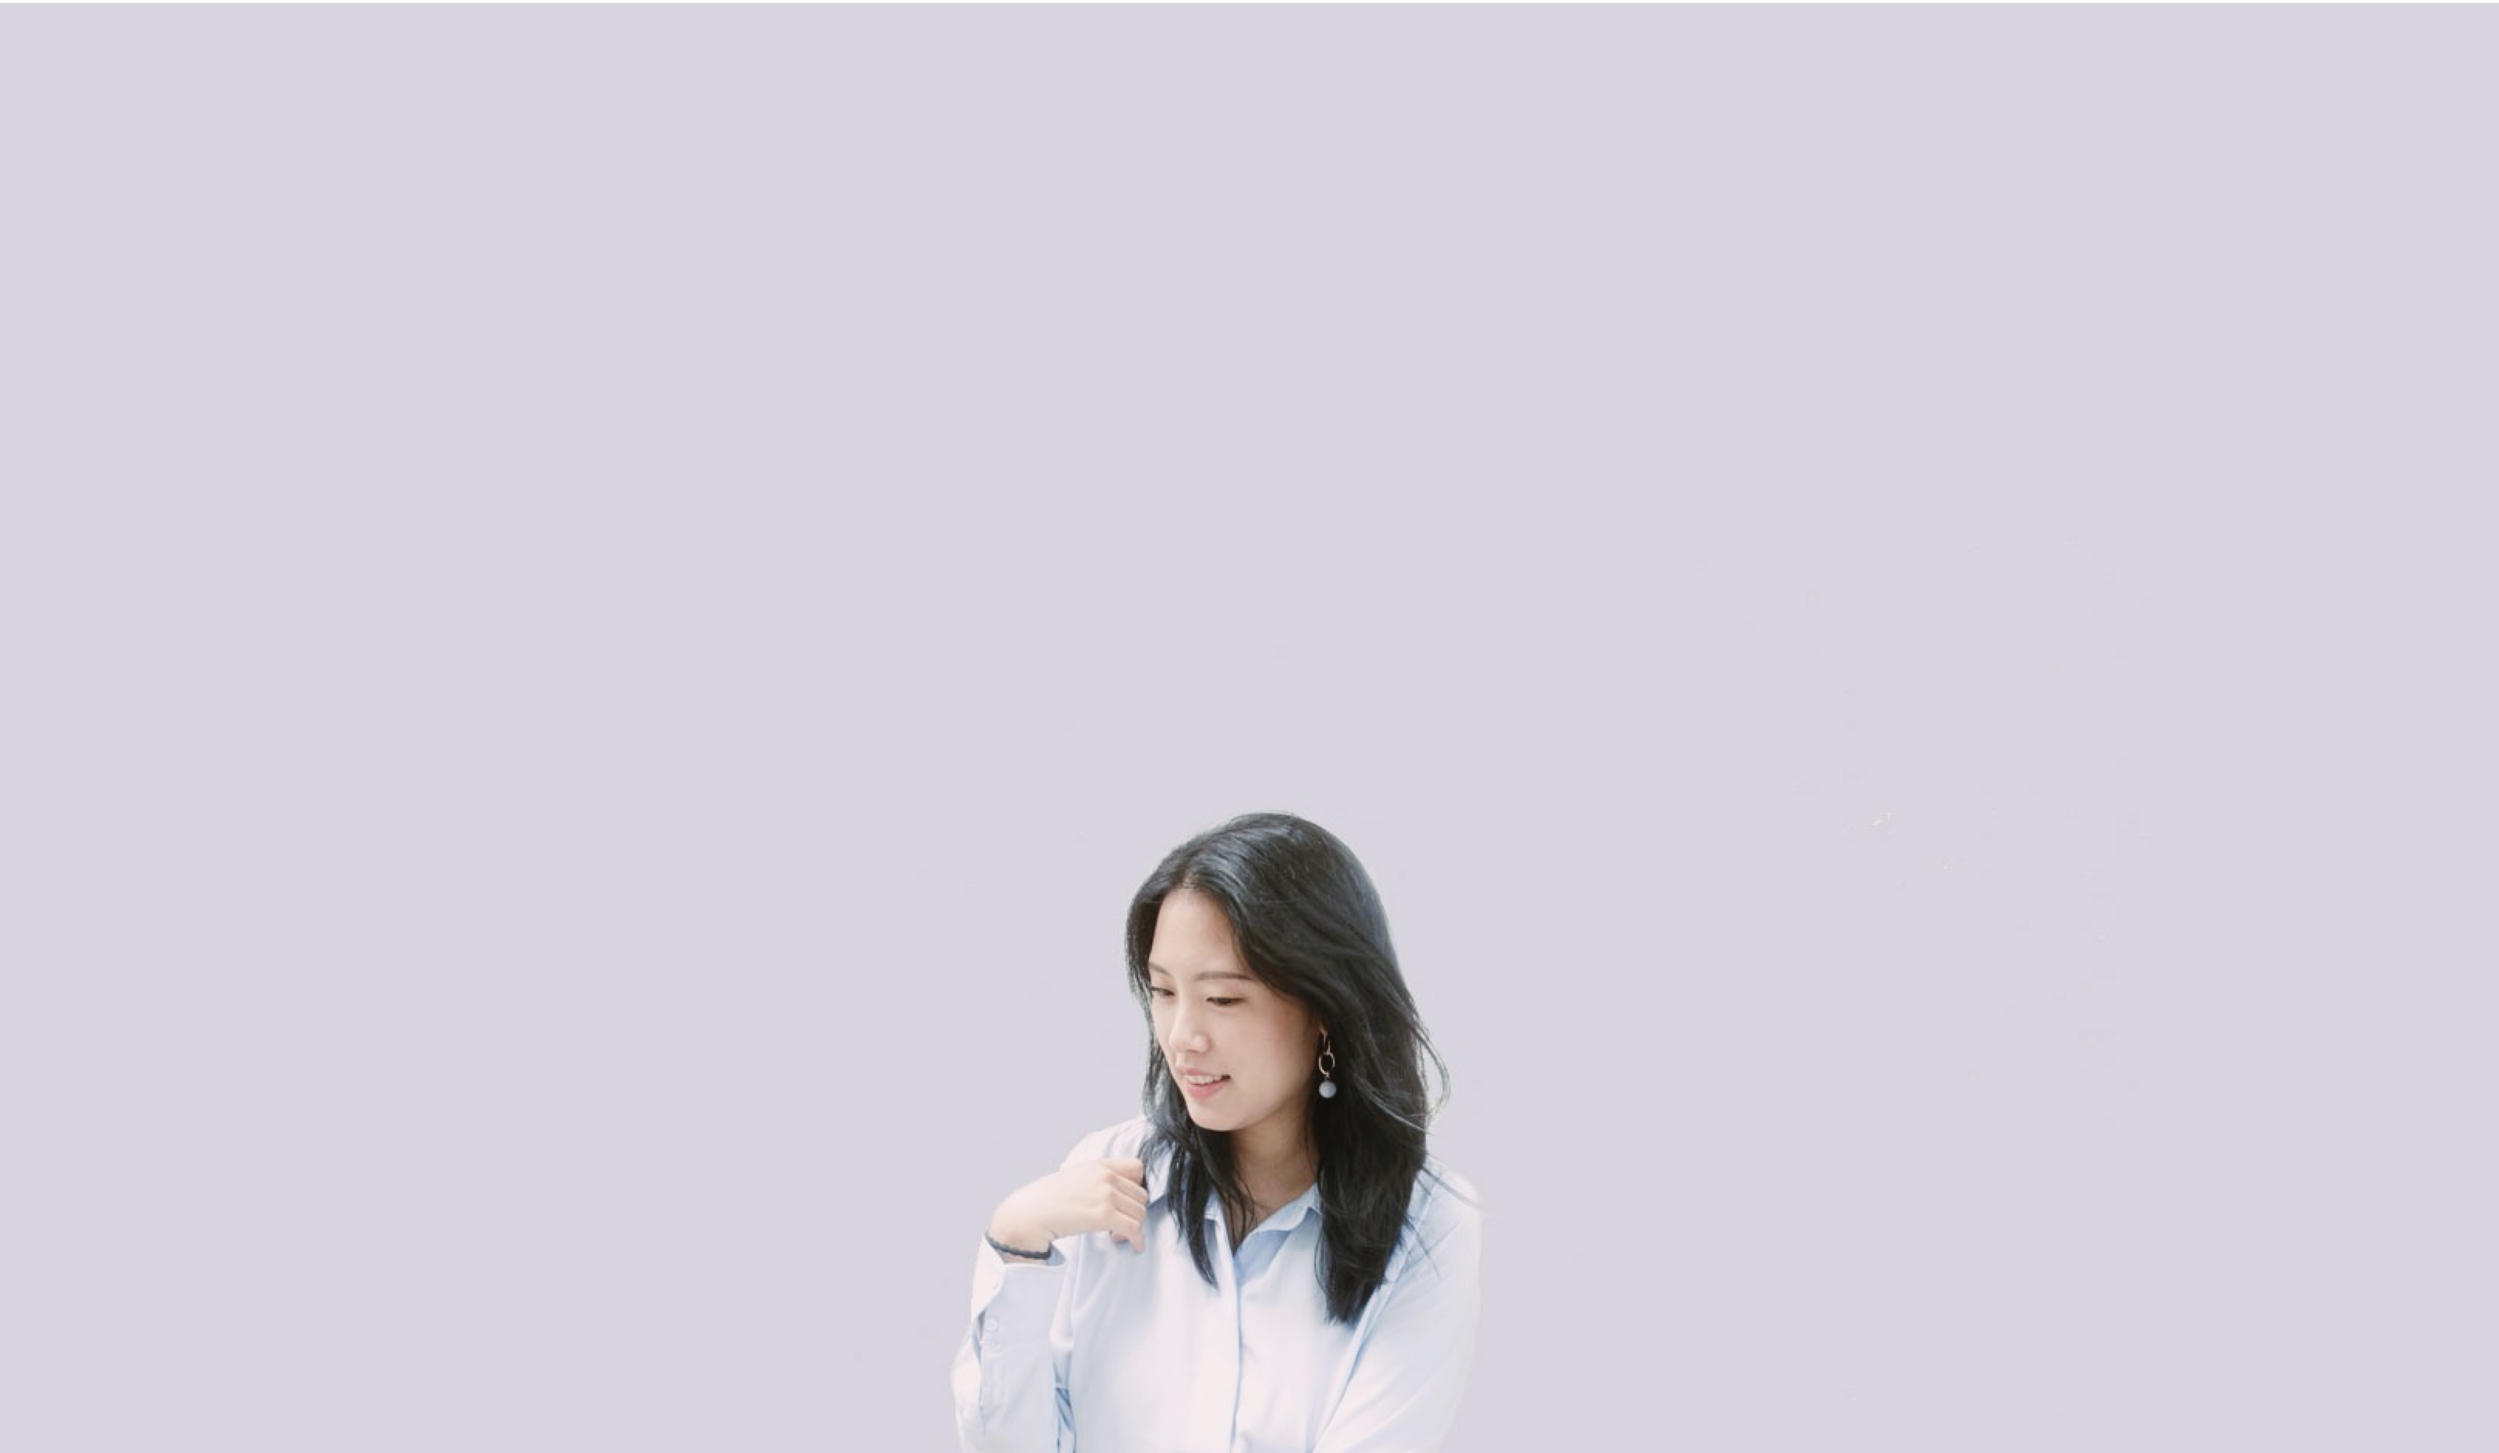
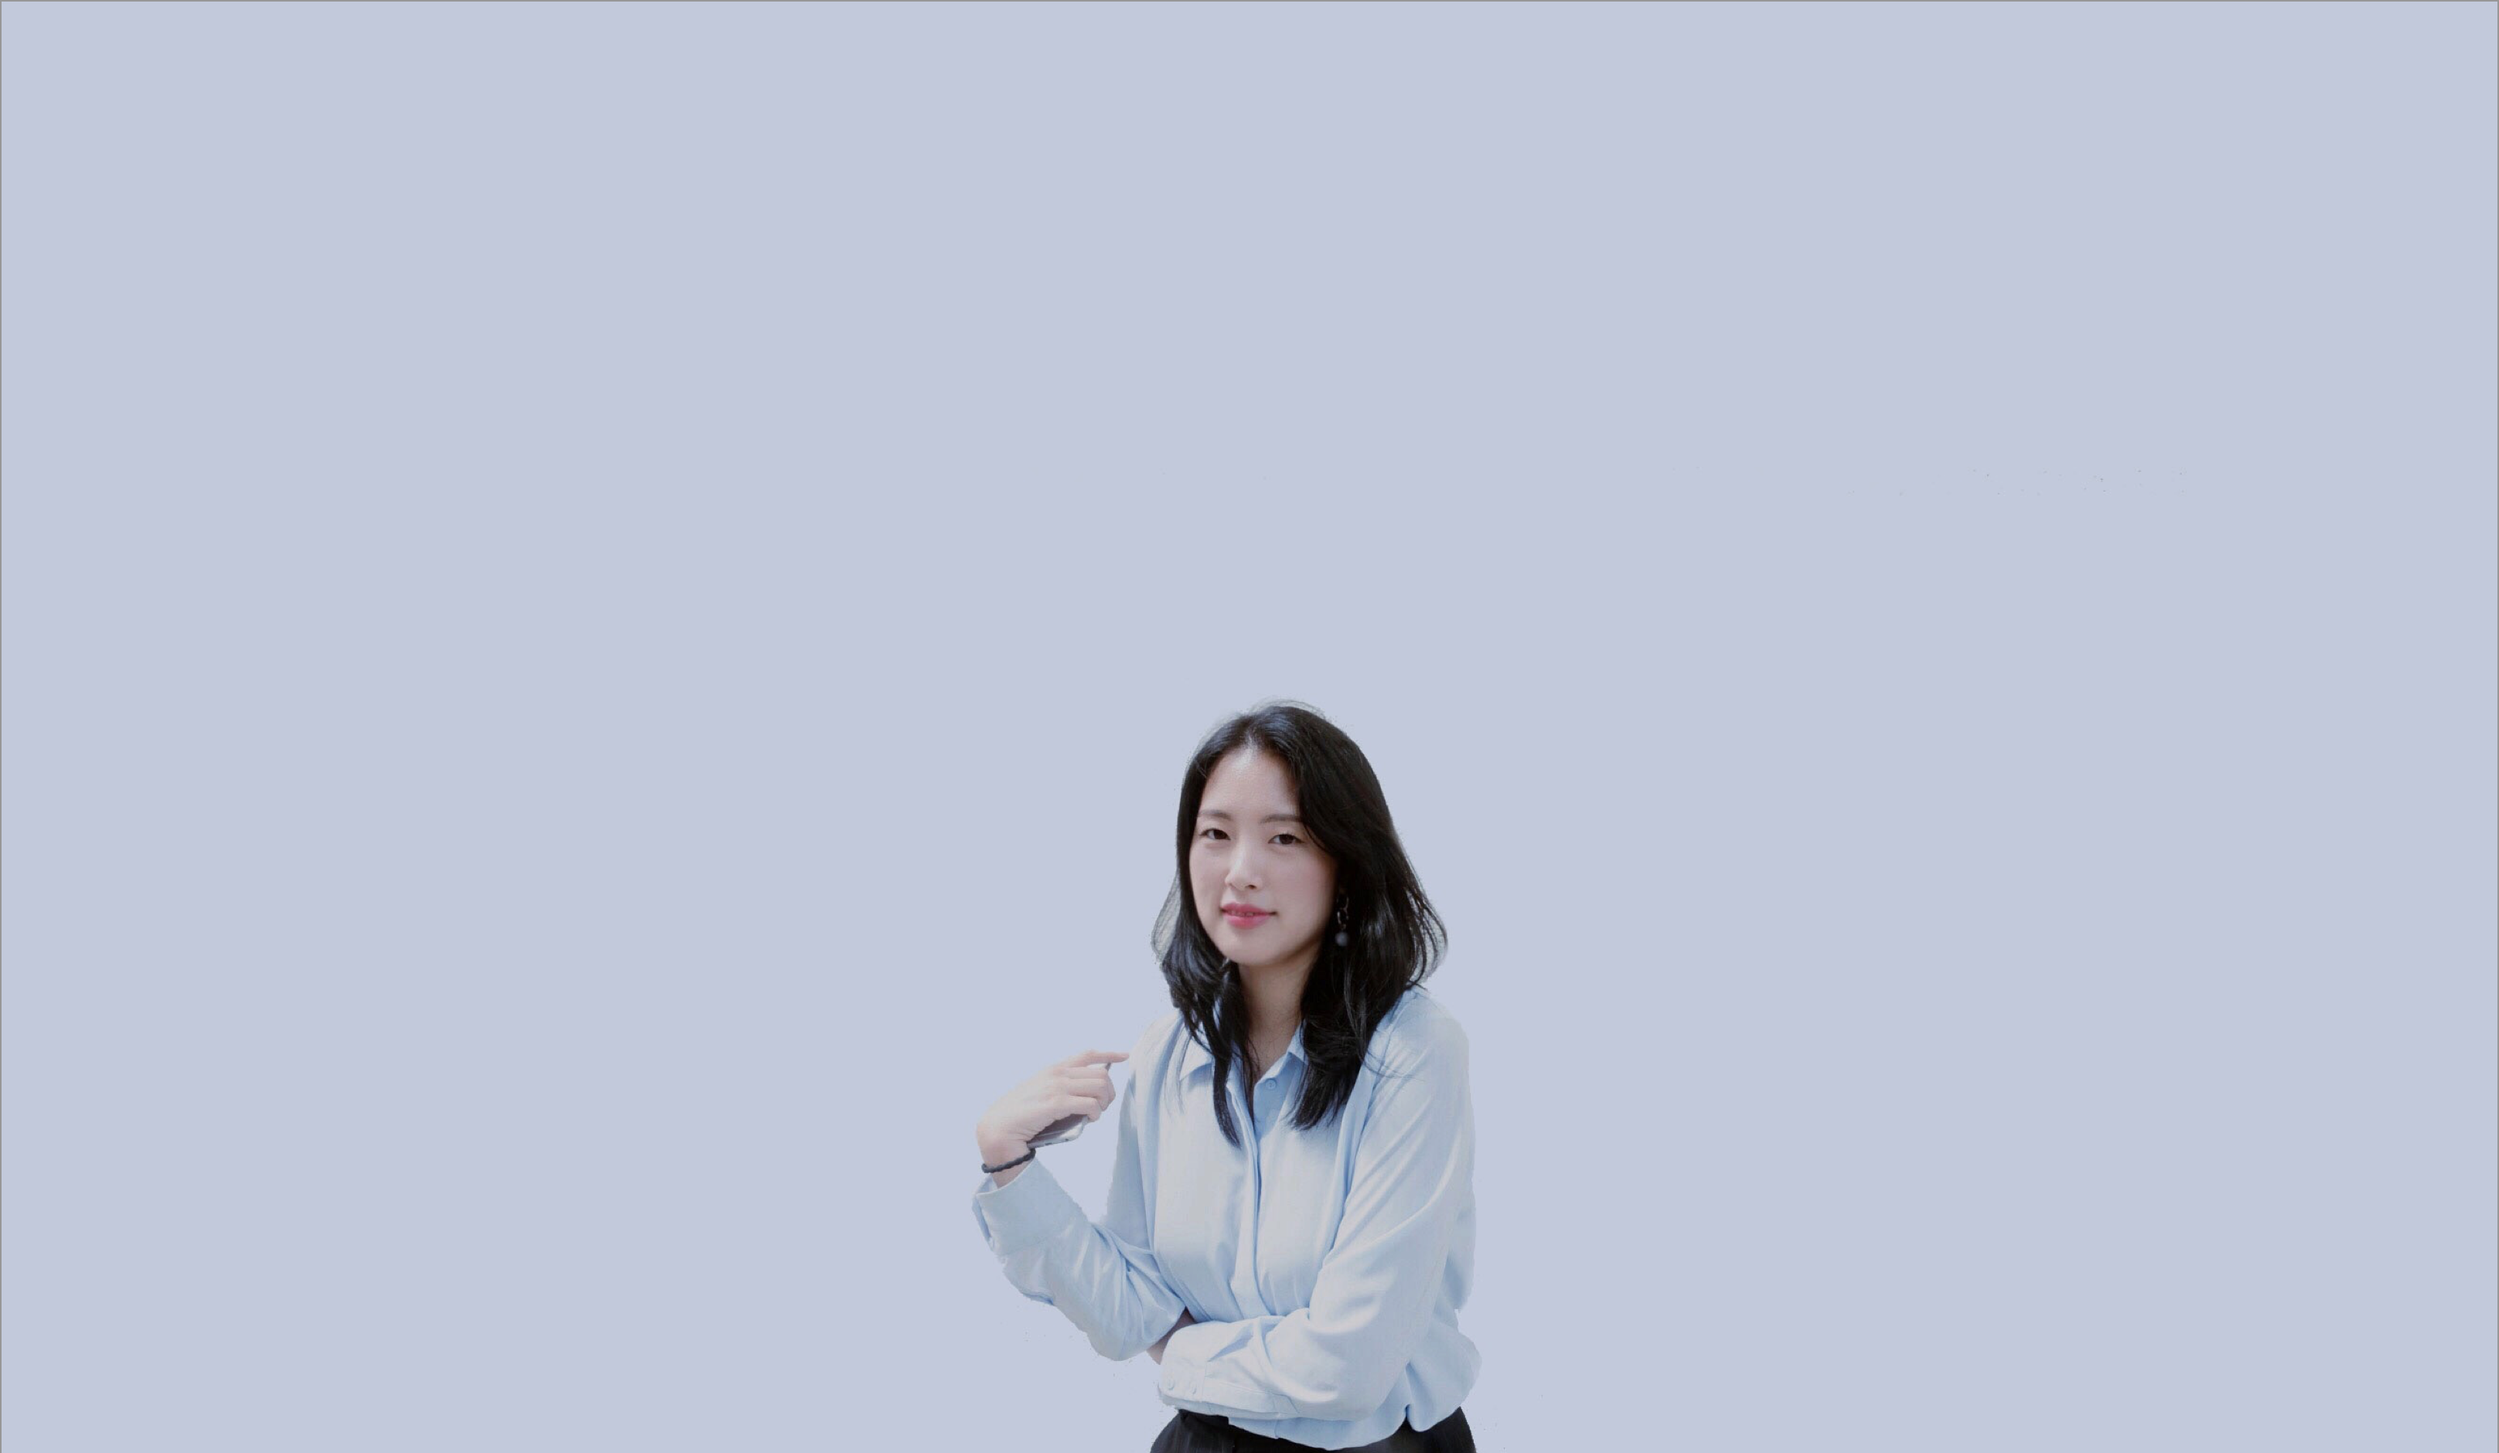
Z
z

Changed region(s): [[0.375, 0.4628, 0.5938, 1.0]]

diff --git a/file/about.css b/file/about.css
@@ -123,15 +123,14 @@ nav{
 
 
 
-
-
+    
     
 /*-----------------
  banner
 ------------------*/
    
 .banner-container{
-    height: 75%;
+    height: 100%;
 }
 
 .banner{
@@ -147,23 +146,26 @@ nav{
     max-width: 600px;
     padding: 2rem;
     margin: 0 auto;
-    color: #ffffff;
     text-shadow: 0 2px 4px rgba(0, 0, 0, 0.1);
-    padding-top: 300px;
+    
 }
 
 
+
+
 .cover-heading{
+  padding-top:70%;
   max-width: 600px;
   margin: 0 auto;
   font-family: Chivo;
-  font-size: 50px;
+  font-size: 38px;
   font-weight: bold;
   font-style: normal;
   font-stretch: normal;
   line-height: 1.54;
   letter-spacing: -0.4px;
   text-align: center;
+  color: #000000;
 }
 
 
@@ -171,17 +173,20 @@ nav{
   max-width: 600px;
   margin: 0 auto;
   font-family: Chivo;
-  font-size: 18px;
+  font-size: 24px;
   font-weight: normal;
   font-style: normal;
   font-stretch: normal;
   line-height: 1.54;
   letter-spacing: -0.4px;
   text-align: center;
+  color: #000000;
 }
 
 
 
+    
+    
 
 
 

diff --git a/seonyu.css b/seonyu.css
@@ -123,27 +123,32 @@ nav{
 /*-----------------
  banner
 ------------------*/
-    
+   
 .banner-container{
-    height: 75%;
+    height: 100%;
 }
 
 .banner{
     height: 100%;
-    padding-bottom: 10rem;
-
+    background-image: url(./imgs/index_b.png);
+    background-size: cover;
+    background-repeat: no-repeat;
+    background-position: bottom center;
 }
 
 
 .text_container{
     max-width: 600px;
-    padding: 2rem;
     margin: 0 auto;
+    text-shadow: 0 2px 4px rgba(0, 0, 0, 0.1);
+    
 }
 
 
+
+
 .cover-heading{
-  padding-top:50%;
+  padding-top:63%;
   max-width: 600px;
   margin: 0 auto;
   font-family: Chivo;

diff --git a/index.html b/index.html
@@ -44,8 +44,8 @@ s.parentNode.insertBefore(r,s);})
         
 
             <header class="header_global">
-            <nav>
-              <h3 class="logo">
+                <nav>
+                <h3 class="logo">
                   <a href="./index.html" style="color:black;" style="opacity:0.5;">Seonyu Kim </a>
                 
                 </h3>
